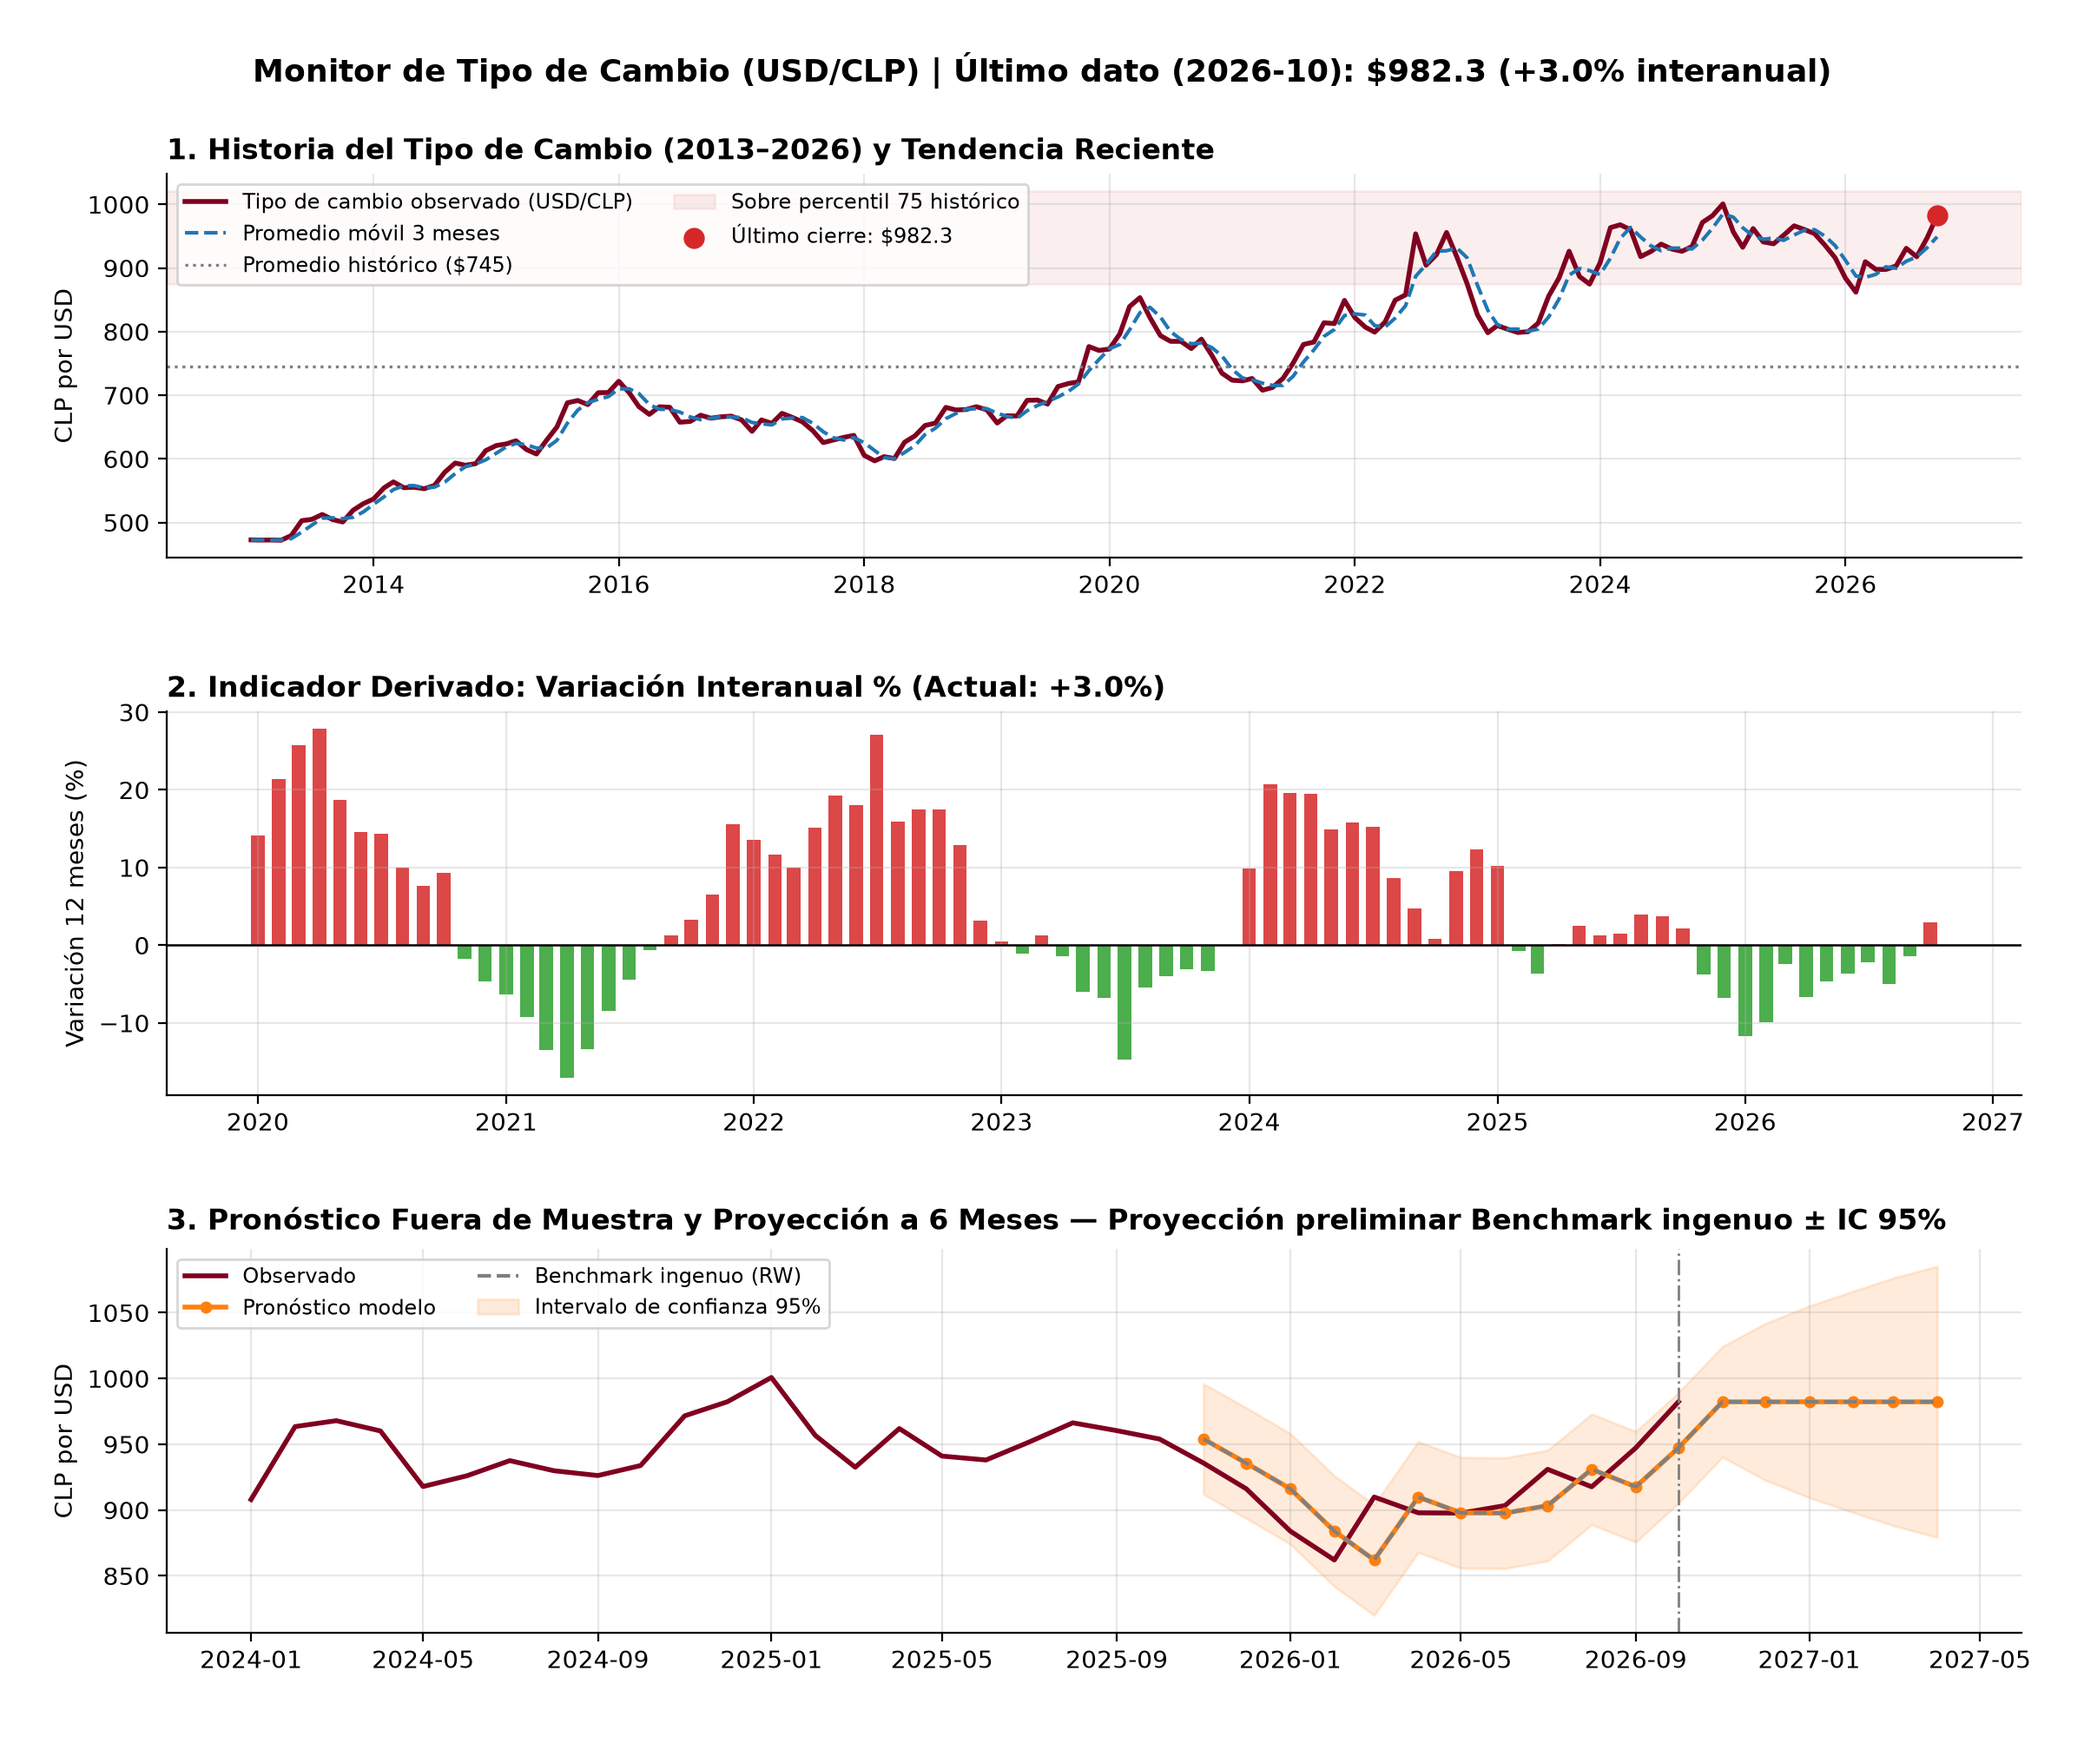
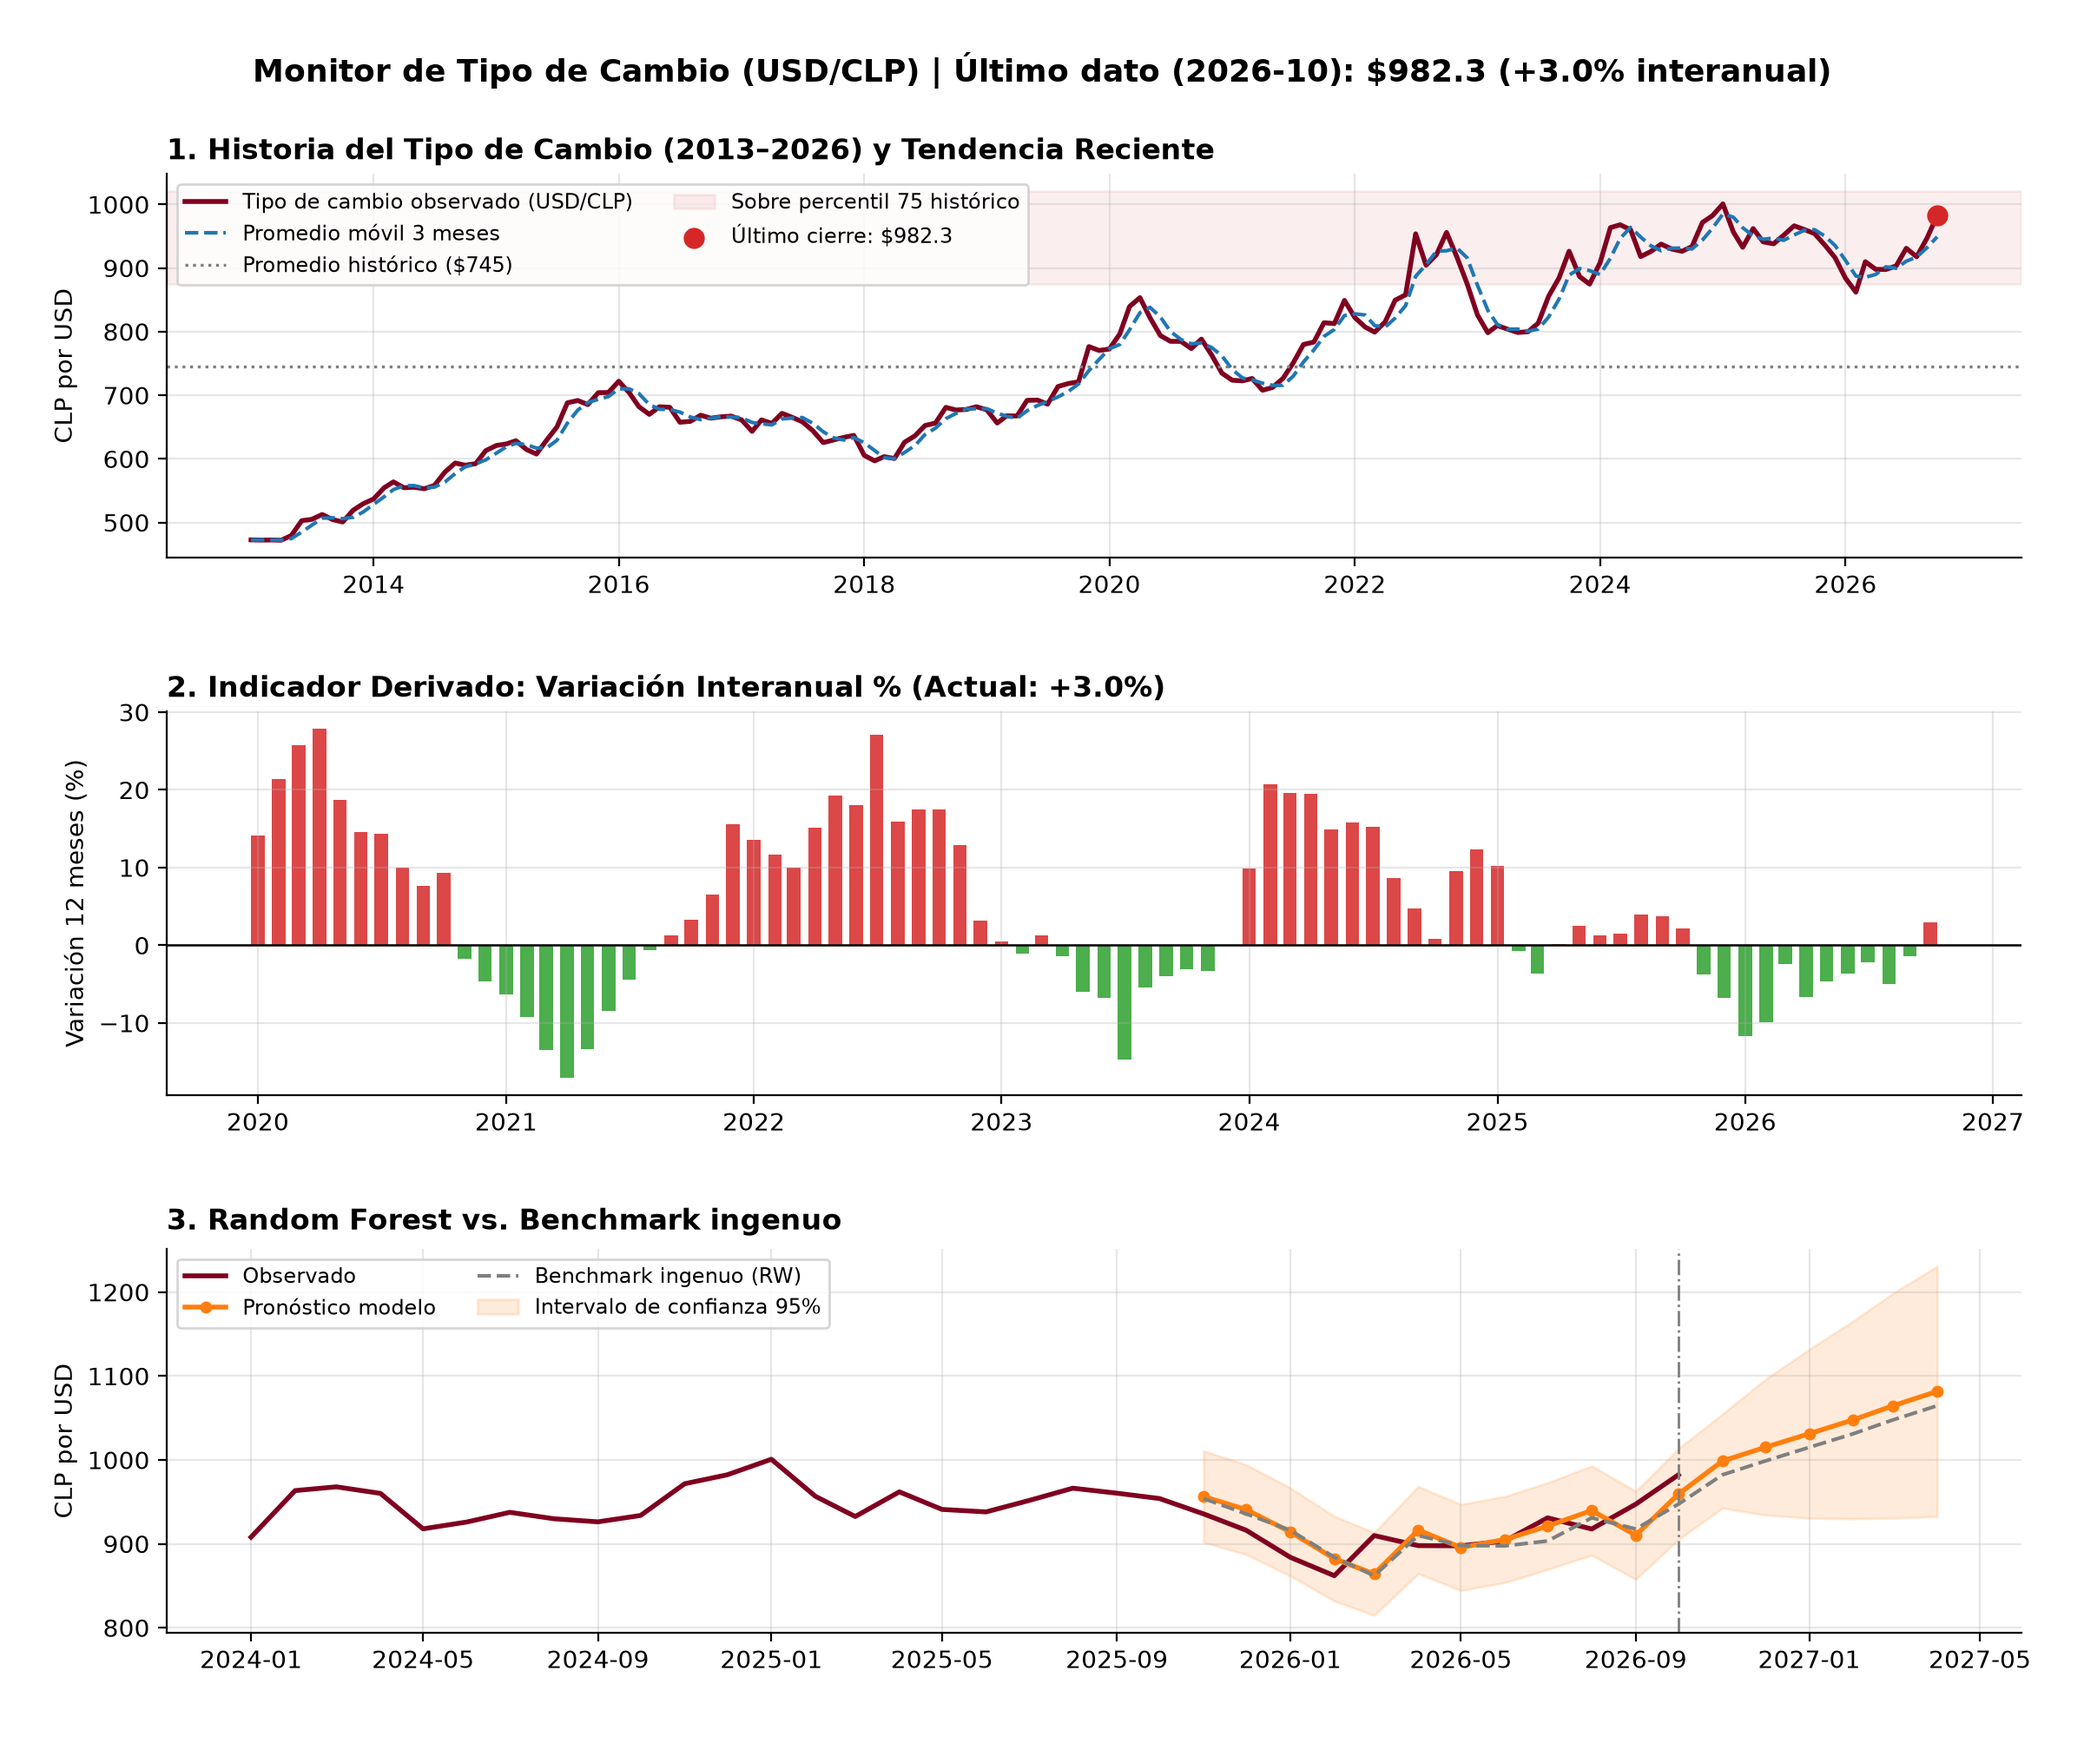
feat(dashboard): integra pronostico Random Forest y genera dashboard Hito 3

diff --git a/src/dashboard.py b/src/dashboard.py
@@ -68,22 +68,22 @@ else:
     h = np.arange(1, 7)
     pred_fut = np.repeat(ultimo_valor, 6)
 
-df_eval = pd.DataFrame({
-        'pred_modelo': pred_ingenuo_eval,
-        'pred_ingenuo': pred_ingenuo_eval,
-        'ic_inf': pred_ingenuo_eval - 1.96 * sigma_mensual,
-        'ic_sup': pred_ingenuo_eval + 1.96 * sigma_mensual
-    }, index=fechas_eval)
+    df_eval = pd.DataFrame({
+            'pred_modelo': pred_ingenuo_eval,
+            'pred_ingenuo': pred_ingenuo_eval,
+            'ic_inf': pred_ingenuo_eval - 1.96 * sigma_mensual,
+            'ic_sup': pred_ingenuo_eval + 1.96 * sigma_mensual
+            }, index=fechas_eval)
 
-df_fut = pd.DataFrame({
-        'pred_modelo': pred_fut,
-        'pred_ingenuo': pred_fut,
-        'ic_inf': pred_fut - 1.96 * sigma_mensual * np.sqrt(h),
-        'ic_sup': pred_fut + 1.96 * sigma_mensual * np.sqrt(h)
-    }, index=fechas_fut)
+    df_fut = pd.DataFrame({
+            'pred_modelo': pred_fut,
+            'pred_ingenuo': pred_fut,
+            'ic_inf': pred_fut - 1.96 * sigma_mensual * np.sqrt(h),
+            'ic_sup': pred_fut + 1.96 * sigma_mensual * np.sqrt(h)
+            }, index=fechas_fut)
 
-df_pron = pd.concat([df_eval, df_fut])
-subtitulo_pron = "Proyección preliminar Benchmark ingenuo ± IC 95%"
+    df_pron = pd.concat([df_eval, df_fut])
+    subtitulo_pron = "Proyección preliminar Benchmark ingenuo ± IC 95%"
 
 #CONSTRUIMOS AHORA EL DASHBOARD CON 3 PANELES VERTICALES.
 
@@ -130,7 +130,7 @@ axes[2].fill_between(df_pron.index, df_pron['ic_inf'], df_pron['ic_sup'],
                      color=COLOR_ALT, alpha=0.15, label='Intervalo de confianza 95%')
 axes[2].axvline(ultimo_fecha, color=COLOR_GRAY, ls='-.', lw=1)
 
-axes[2].set_title(f'3. Pronóstico Fuera de Muestra y Proyección a 6 Meses — {subtitulo_pron}',
+axes[2].set_title(f'3. Random Forest vs. Benchmark ingenuo',
                   fontweight='bold', loc='left', pad=8)
 axes[2].set_ylabel('CLP por USD')
 axes[2].legend(loc='upper left', ncol=2, fontsize=8.5)
